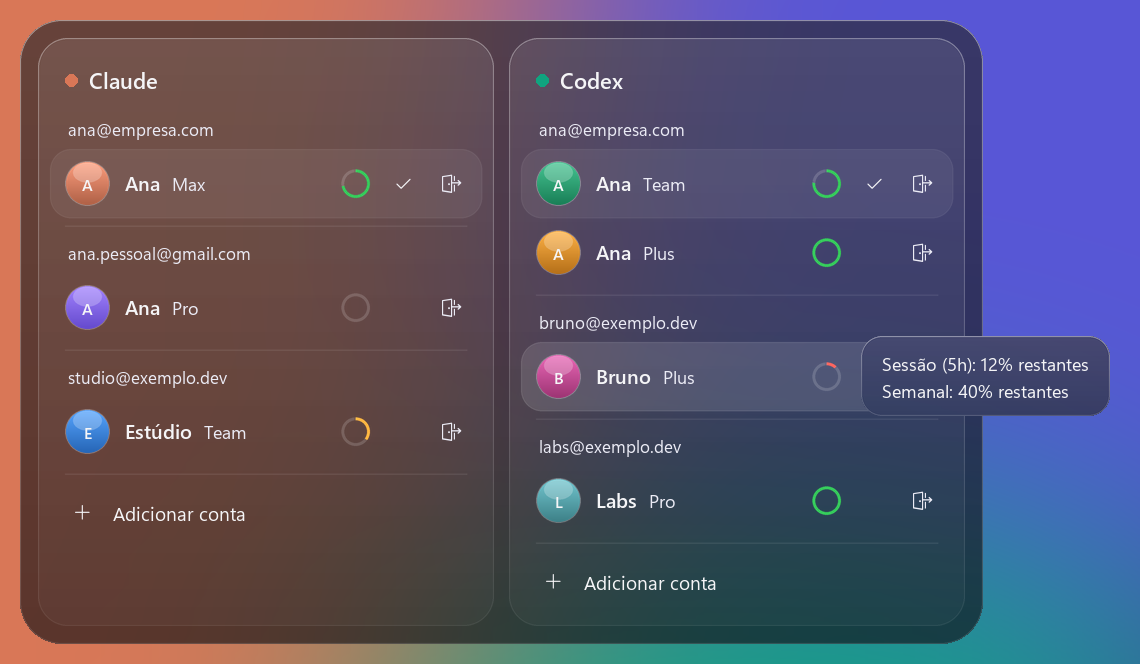
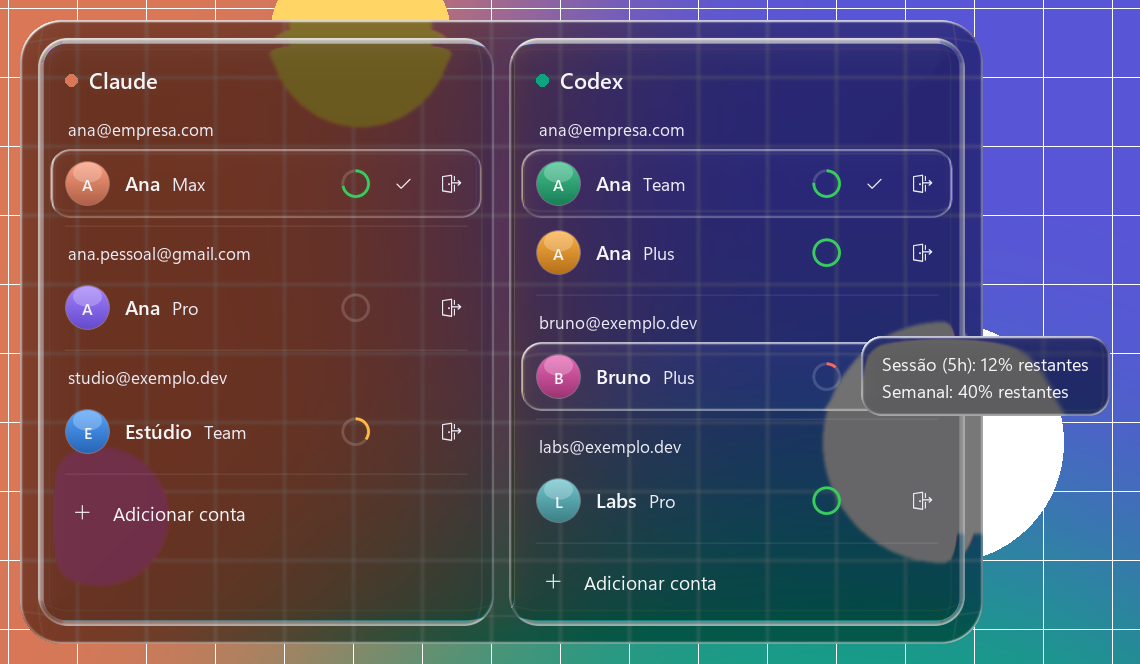
Real dark Liquid Glass: refraction lens instead of frosted blur
Each surface (window, columns, hovered rows, tooltip) is a glass slab
computed with numpy: background bent at the bezel by a convex lens
profile, per-channel chromatic fringe, luminance-adaptive dark tint and
a directional specular rim. Only a light blur, as in iOS 26.

diff --git a/src/glass.py b/src/glass.py
@@ -4,6 +4,7 @@ The window shows one image: the blurred screen behind it, tinted, with glass car
 specular highlights and anti-aliased shapes on top. Hit regions are returned so the
 Tk window can map mouse events back to actions.
 """
+import numpy as np
 from PIL import Image, ImageChops, ImageDraw, ImageEnhance, ImageFilter, ImageFont, ImageGrab
 
 SS = 3  # supersampling for shapes
@@ -80,16 +81,91 @@ def build(columns, s=1.0):
     return (w, h), items, L
 
 
-def backdrop(box, size):
-    """Blurred, tinted, slightly saturated grab of what is behind the window."""
+def grab(box):
     try:
-        bg = ImageGrab.grab(box, all_screens=True).convert("RGB").resize(size)
+        return ImageGrab.grab(box, all_screens=True).convert("RGB")
     except Exception:  # noqa: BLE001
-        bg = Image.new("RGB", size, (30, 30, 34))
-    bg = bg.filter(ImageFilter.GaussianBlur(max(size) / 22))
-    bg = ImageEnhance.Color(bg).enhance(1.6)
-    tint = Image.new("RGB", size, (14, 14, 18))
-    return Image.blend(bg, tint, 0.62)
+        return Image.new("RGB", (box[2] - box[0], box[3] - box[1]), (30, 30, 34))
+
+
+class Backdrop:
+    """What is behind the window, with a margin so the lens can bend in content from outside."""
+
+    def __init__(self, img, margin, s):
+        self.m, self.s = margin, s
+        img = img.filter(ImageFilter.GaussianBlur(1.6 * s))      # Liquid Glass is clear, not frosted
+        img = ImageEnhance.Color(img).enhance(1.35)
+        self.src = np.asarray(img, dtype=np.float32) / 255.0
+        self.base = None
+
+
+def backdrop(box, size, s=1.0):
+    m = int(40 * s)
+    img = grab((box[0] - m, box[1] - m, box[0] + size[0] + m, box[1] + size[1] + m))
+    img = img.resize((size[0] + 2 * m, size[1] + 2 * m))
+    return Backdrop(img, m, s)
+
+
+# ---------- lens optics
+LIGHT = np.array([-0.55, -0.83])  # light from the top-left
+
+
+def _sdf(w, h, r):
+    """Signed distance to a rounded rect of size w x h (negative inside) and its outward normal."""
+    ys, xs = np.mgrid[0:h, 0:w].astype(np.float32)
+    px, py = xs + 0.5 - w / 2, ys + 0.5 - h / 2
+    qx, qy = np.abs(px) - (w / 2 - r), np.abs(py) - (h / 2 - r)
+    ox, oy = np.maximum(qx, 0), np.maximum(qy, 0)
+    d = np.hypot(ox, oy) + np.minimum(np.maximum(qx, qy), 0) - r
+    ln = np.hypot(ox, oy) + 1e-6
+    corner = (qx > 0) & (qy > 0)
+    nx = np.where(corner, ox / ln, np.where(qx > qy, 1.0, 0.0)) * np.sign(px)
+    ny = np.where(corner, oy / ln, np.where(qx > qy, 0.0, 1.0)) * np.sign(py)
+    return d, nx, ny
+
+
+def _sample(src, x, y):
+    h, w = src.shape[:2]
+    x = np.clip(x, 0, w - 1.001)
+    y = np.clip(y, 0, h - 1.001)
+    x0, y0 = x.astype(np.int32), y.astype(np.int32)
+    fx, fy = (x - x0)[..., None], (y - y0)[..., None]
+    a, b = src[y0, x0], src[y0, x0 + 1]
+    c, d = src[y0 + 1, x0], src[y0 + 1, x0 + 1]
+    return (a * (1 - fx) + b * fx) * (1 - fy) + (c * (1 - fx) + d * fx) * fy
+
+
+def lens(src, off, box, r, s, bezel=18, depth=1.0, dark=0.5, spec=1.0, chroma=1.0):
+    """Liquid Glass slab over `box`: refraction at the bezel, chromatic fringe, dark tint, specular rim.
+
+    src: float RGB array to sample from; off: (dx, dy) of output coords inside src.
+    Returns (rgb float array, alpha mask float array) for the box.
+    """
+    x0, y0, x1, y1 = [int(v) for v in box]
+    w, h = x1 - x0, y1 - y0
+    d, nx, ny = _sdf(w, h, r)
+    b = bezel * s
+    t = np.clip(-d, 0, None)                      # depth inside the edge
+    xb = np.clip(1 - t / b, 0, 1)                  # 1 at the rim, 0 past the bezel
+    bend = (xb ** 2.2) * b * depth * 1.4        # convex lens: strongest at the rim, fades inward
+    ys, xs = np.mgrid[0:h, 0:w].astype(np.float32)
+    gx, gy = xs + x0 + off[0], ys + y0 + off[1]
+    out = np.empty((h, w, 3), np.float32)
+    for ch, k in enumerate((1.0, 1.0 + 0.10 * chroma, 1.0 + 0.20 * chroma)):   # R, G, B bend differently
+        out[..., ch] = _sample(src[..., ch:ch + 1], gx + nx * bend * k, gy + ny * bend * k)[..., 0]
+    # dark, luminance-adaptive tint: bright backgrounds get pulled down more
+    lum = out @ np.array([0.2126, 0.7152, 0.0722], np.float32)
+    keep = (1 - dark) - 0.18 * dark * lum
+    out = out * keep[..., None] + np.array([0.03, 0.03, 0.04], np.float32) * dark
+    # specular: thin bright rim facing the light, softer on the opposite side, faint inner glow
+    face = nx * LIGHT[0] + ny * LIGHT[1]
+    rim = np.exp(-((t - 0.6 * s) / (0.9 * s)) ** 2)
+    glow = np.exp(-t / (b * 0.55))
+    hi = spec * (rim * (0.30 + 0.70 * np.clip(face, 0, 1) ** 1.5 + 0.35 * np.clip(-face, 0, 1) ** 2)
+                 + glow * 0.07 * np.clip(face, 0, 1))
+    out = out + hi[..., None] * (1 - out) * 0.9
+    alpha = np.clip(0.5 - d, 0, 1)                 # 1px anti-aliased edge
+    return np.clip(out, 0, 1), alpha
 
 
 def _rr(d, box, r, **kw):
@@ -159,34 +235,45 @@ def _avatar(size, color, text, s):
 def render(bg, items, L, state):
     """state: hover=(kind,id), active={colname:key}, usage={(col,key):left|None|'err'},
     armed=(col,key)|None, initials=fn, label=fn."""
-    w, h = bg.size
-    img = bg.convert("RGBA")
+    s = L.s
+    w, h = bg.src.shape[1] - 2 * bg.m, bg.src.shape[0] - 2 * bg.m
+    if bg.base is None:
+        # 1) the window itself is one thick dark glass slab bending the desktop at its rim
+        arr, alpha = lens(bg.src, (bg.m, bg.m), (0, 0, w, h), L.radius, s,
+                          bezel=34, depth=1.0, dark=0.46, spec=1.0, chroma=1.0)
+        # 2) each column is a thinner slab on top, refracting the slab below
+        cols = {}
+        for kind, box, col, _ in items:
+            b = cols.setdefault(col["name"], list(box))
+            b[0], b[1], b[2], b[3] = min(b[0], box[0]), min(b[1], box[1]), max(b[2], box[2]), max(b[3], box[3])
+        for b in cols.values():
+            cb = (b[0], L.pad, b[2], h - L.pad)
+            sub, a = lens(arr, (0, 0), cb, L.card_r, s, bezel=18, depth=0.9, dark=0.14, spec=0.75, chroma=0.6)
+            reg = arr[cb[1]:cb[3], cb[0]:cb[2]]
+            reg[:] = reg * (1 - a[..., None]) + sub * a[..., None]
+        bg.base, bg.alpha = arr, alpha
 
-    # outer specular sheen
-    img.alpha_composite(_vgrad((w, h), (255, 255, 255, 18), (255, 255, 255, 0)))
-    cols = {}
-    for kind, box, col, _ in items:
-        cols.setdefault(col["name"], [box[0], box[1], box[2], box[3]])
-        b = cols[col["name"]]
-        b[0], b[1], b[2], b[3] = min(b[0], box[0]), min(b[1], box[1]), max(b[2], box[2]), max(b[3], box[3])
-    for name, b in cols.items():
-        _glass_card(img, (b[0], L.pad, b[2], h - L.pad), L.card_r, fill_a=14, edge_a=46)
-
-    over = Image.new("RGBA", (w * SS, h * SS), (0, 0, 0, 0))
-    od = ImageDraw.Draw(over)
+    arr = bg.base.copy()
     hover = state.get("hover")
     for kind, box, col, acc in items:
         key = acc["key"] if isinstance(acc, dict) else None
         hid = (kind, col["name"], key)
-        if kind == "row":
-            active = state["active"].get(col["name"]) == key
-            hov = hover and hover[1:] == hid[1:] and hover[0] in ("row", "ring", "door")
-            if hov or active:
-                _rr(od, box, L.pill_r, fill=(255, 255, 255, 30 if hov else 16),
-                    outline=(255, 255, 255, 46 if hov else 26), width=SS)
-        elif kind == "add" and hover == hid:
-            _rr(od, box, L.pill_r, fill=(255, 255, 255, 26), outline=(255, 255, 255, 40), width=SS)
-        elif kind == "sep":
+        hov = hover and hover[1:] == hid[1:] and (hover[0] in ("row", "ring", "door") if kind == "row"
+                                                   else hover[0] == kind)
+        active = kind == "row" and state["active"].get(col["name"]) == key
+        if kind in ("row", "add") and (hov or active):
+            # 3) hovered / selected rows are a small glass capsule, lighter than the card
+            sub, a = lens(arr, (0, 0), box, L.pill_r, s, bezel=10, depth=0.75,
+                          dark=-0.10 if hov else -0.04, spec=0.9 if hov else 0.6, chroma=0.5)
+            reg = arr[box[1]:box[3], box[0]:box[2]]
+            reg[:] = reg * (1 - a[..., None]) + sub * a[..., None]
+    img = Image.fromarray((arr * 255).astype(np.uint8), "RGB").convert("RGBA")
+
+    over = Image.new("RGBA", (w * SS, h * SS), (0, 0, 0, 0))
+    od = ImageDraw.Draw(over)
+    for kind, box, col, acc in items:
+        key = acc["key"] if isinstance(acc, dict) else None
+        if kind == "sep":
             y = (box[1] + box[3]) / 2
             od.line(((box[0] + L.u(18)) * SS, y * SS, (box[2] - L.u(18)) * SS, y * SS),
                     fill=(255, 255, 255, 26), width=SS)
@@ -240,13 +327,6 @@ def render(bg, items, L, state):
     mask = Image.new("L", (w * SS, h * SS), 0)
     ImageDraw.Draw(mask).rounded_rectangle((0, 0, w * SS - 1, h * SS - 1), L.radius * SS, fill=255)
     mask = mask.resize((w, h), Image.LANCZOS)
-    rim = Image.new("L", (w * SS, h * SS), 0)
-    ImageDraw.Draw(rim).rounded_rectangle((0, 0, w * SS - 1, h * SS - 1), L.radius * SS, outline=255,
-                                          width=int(1.2 * SS))
-    rim = rim.resize((w, h), Image.LANCZOS)
-    edge = _vgrad((w, h), (255, 255, 255, 120), (255, 255, 255, 34))
-    edge.putalpha(ImageChops.multiply(edge.getchannel("A"), rim))
-    img.alpha_composite(edge)
     out = Image.new("RGB", (w, h), KEY)
     out.paste(img.convert("RGB"), (0, 0), mask.point(lambda v: 255 if v > 110 else 0))
     return out
@@ -259,15 +339,15 @@ def tooltip(text, origin_box, s=1.0):
     bw, bh = tmp.multiline_textbbox((0, 0), text, font=f, spacing=int(5 * s))[2:]
     pw, ph = int(14 * s), int(10 * s)
     size = (bw + pw * 2, bh + ph * 2 + int(2 * s))
-    bg = backdrop(origin_box, size)
-    L = Layout(s)
-    L.radius = int(14 * s)
-    img = bg.convert("RGBA")
-    _glass_card(img, (0, 0, size[0], size[1]), L.radius, fill_a=26, edge_a=70)
+    if origin_box[2] - origin_box[0] < 4:
+        return Image.new("RGB", size, KEY)  # size probe only
+    bg = backdrop(origin_box, size, s)
+    r = min(int(14 * s), size[1] // 2)
+    arr, alpha = lens(bg.src, (bg.m, bg.m), (0, 0, size[0], size[1]), r, s,
+                      bezel=12, depth=1.0, dark=0.55, spec=1.0, chroma=0.8)
+    img = Image.fromarray((arr * 255).astype(np.uint8), "RGB")
     ImageDraw.Draw(img).multiline_text((pw, ph), text, font=f, fill=FG, spacing=int(5 * s))
-    mask = Image.new("L", (size[0] * SS, size[1] * SS), 0)
-    ImageDraw.Draw(mask).rounded_rectangle((0, 0, size[0] * SS - 1, size[1] * SS - 1), L.radius * SS, fill=255)
-    mask = mask.resize(size, Image.LANCZOS).point(lambda v: 255 if v > 110 else 0)
+    mask = Image.fromarray((alpha > 0.43).astype(np.uint8) * 255, "L")
     out = Image.new("RGB", size, KEY)
-    out.paste(img.convert("RGB"), (0, 0), mask)
+    out.paste(img, (0, 0), mask)
     return out

diff --git a/tools/render_demo.py b/tools/render_demo.py
@@ -33,16 +33,35 @@ def wallpaper(size):
     for (cx, cy, r, c) in [(0.18, 0.25, 0.42, (217, 119, 87)), (0.78, 0.2, 0.38, (88, 86, 214)),
                            (0.62, 0.85, 0.45, (16, 163, 127)), (0.1, 0.95, 0.3, (47, 125, 225))]:
         d.ellipse(((cx - r) * w, (cy - r) * w, (cx + r) * w, (cy + r) * w), fill=c)
-    return im.filter(ImageFilter.GaussianBlur(w / 10))
+    im = im.filter(ImageFilter.GaussianBlur(w / 12))
+    # crisp details so the lens bending at the rims is visible
+    d = ImageDraw.Draw(im)
+    step = int(46 * S)
+    for x in range(0, w, step):
+        d.line((x, 0, x, h), fill=(255, 255, 255), width=1)
+    for y in range(0, h, step):
+        d.line((0, y, w, y), fill=(255, 255, 255), width=1)
+    for i, (x, y, r) in enumerate([(0.32, 0.18, 60), (0.7, 0.62, 80), (0.15, 0.7, 46), (0.9, 0.3, 54)]):
+        d.ellipse((x * w - r * S, y * h - r * S, x * w + r * S, y * h + r * S),
+                  fill=[(255, 214, 102), (255, 255, 255), (255, 120, 160), (120, 220, 255)][i])
+    return im
 
 
 (w, h), items, L = glass.build(COLS, S)
 canvas_w, canvas_h = w + int(260 * S), h + int(80 * S)
-wall = wallpaper((canvas_w, canvas_h))
+pad = int(60 * S)
+wall_full = wallpaper((canvas_w + 2 * pad, canvas_h + 2 * pad))
+wall = wall_full.crop((pad, pad, pad + canvas_w, pad + canvas_h))
 ox, oy = int(40 * S), int(40 * S)
-glass.backdrop = lambda box, size: Image.blend(
-    wall.crop((box[0], box[1], box[2], box[3])).resize(size).filter(ImageFilter.GaussianBlur(max(size) / 22)),
-    Image.new("RGB", size, (14, 14, 18)), 0.62)
+
+
+def fake_backdrop(box, size, s=1.0):
+    m = int(40 * s)
+    img = wall_full.crop((box[0] - m + pad, box[1] - m + pad, box[0] + size[0] + m + pad, box[1] + size[1] + m + pad))
+    return glass.Backdrop(img, m, s)
+
+
+glass.backdrop = fake_backdrop
 
 state = {"hover": ("row", "Codex", "x3"), "armed": None, "initials": lambda a: a["name"][0].upper(),
          "active": {"Claude": "c1", "Codex": "x1"}, "usage": USAGE}

diff --git a/README.md b/README.md
@@ -23,6 +23,7 @@
 
 ## O que faz
 
+- **Visual dark Liquid Glass** (estilo iOS 26): lente com refração nas bordas, aberração cromática, brilho especular direcional e tint escuro adaptativo, renderizado sobre o que está atrás da janela.
 - **Um ícone na bandeja** (silhueta de pessoa). Clique e aparece um menu dividido em duas metades: **Claude** e **Codex**.
 - **Troca com um clique.** Clique numa conta e o trocador fecha o app, troca o login e reabre na conta escolhida.
 - **Histórico preservado.**
